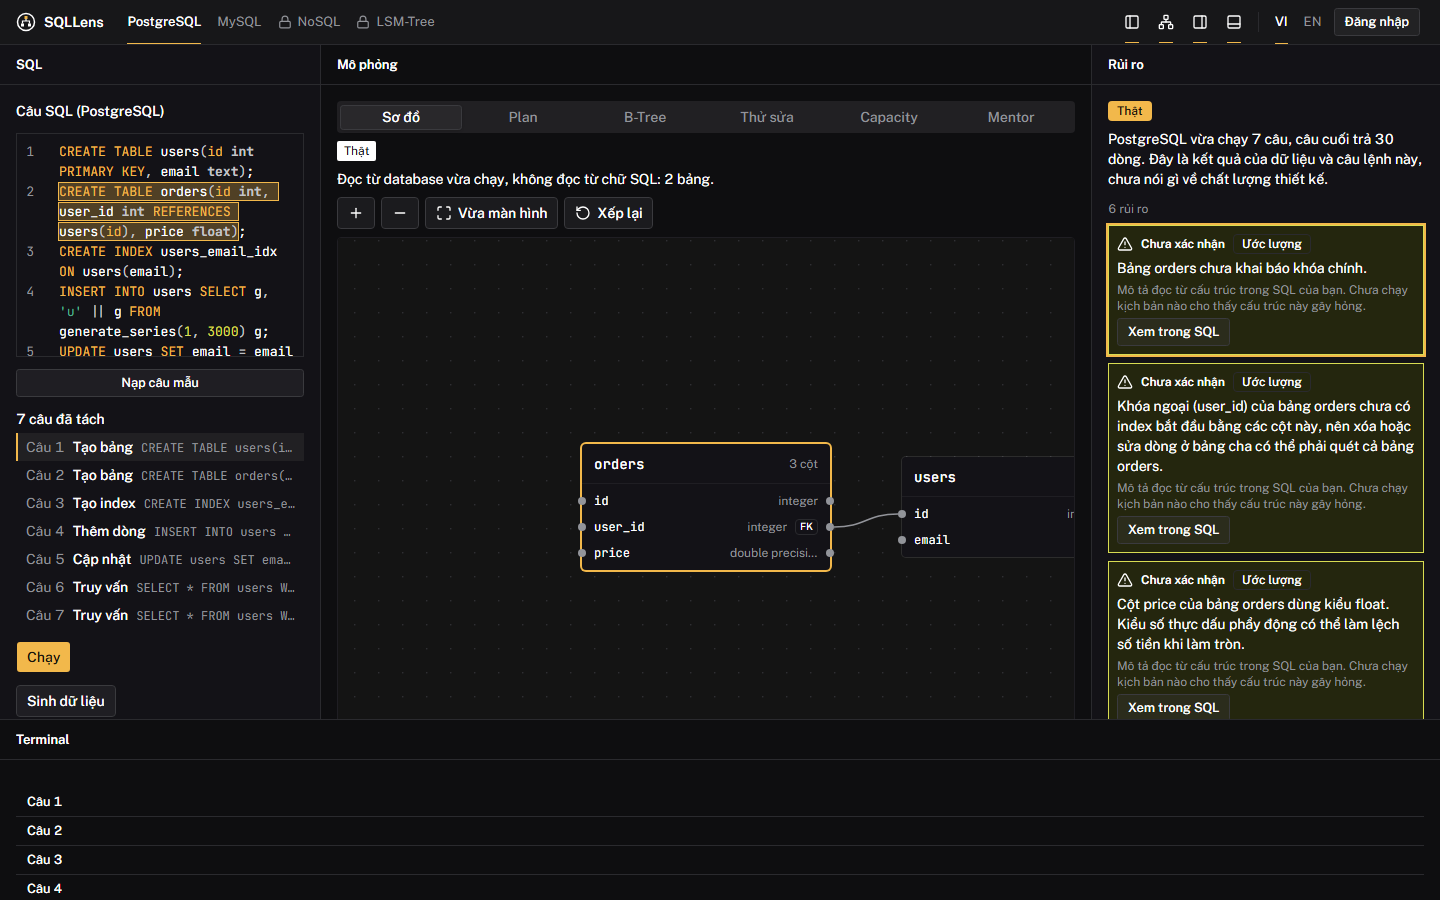
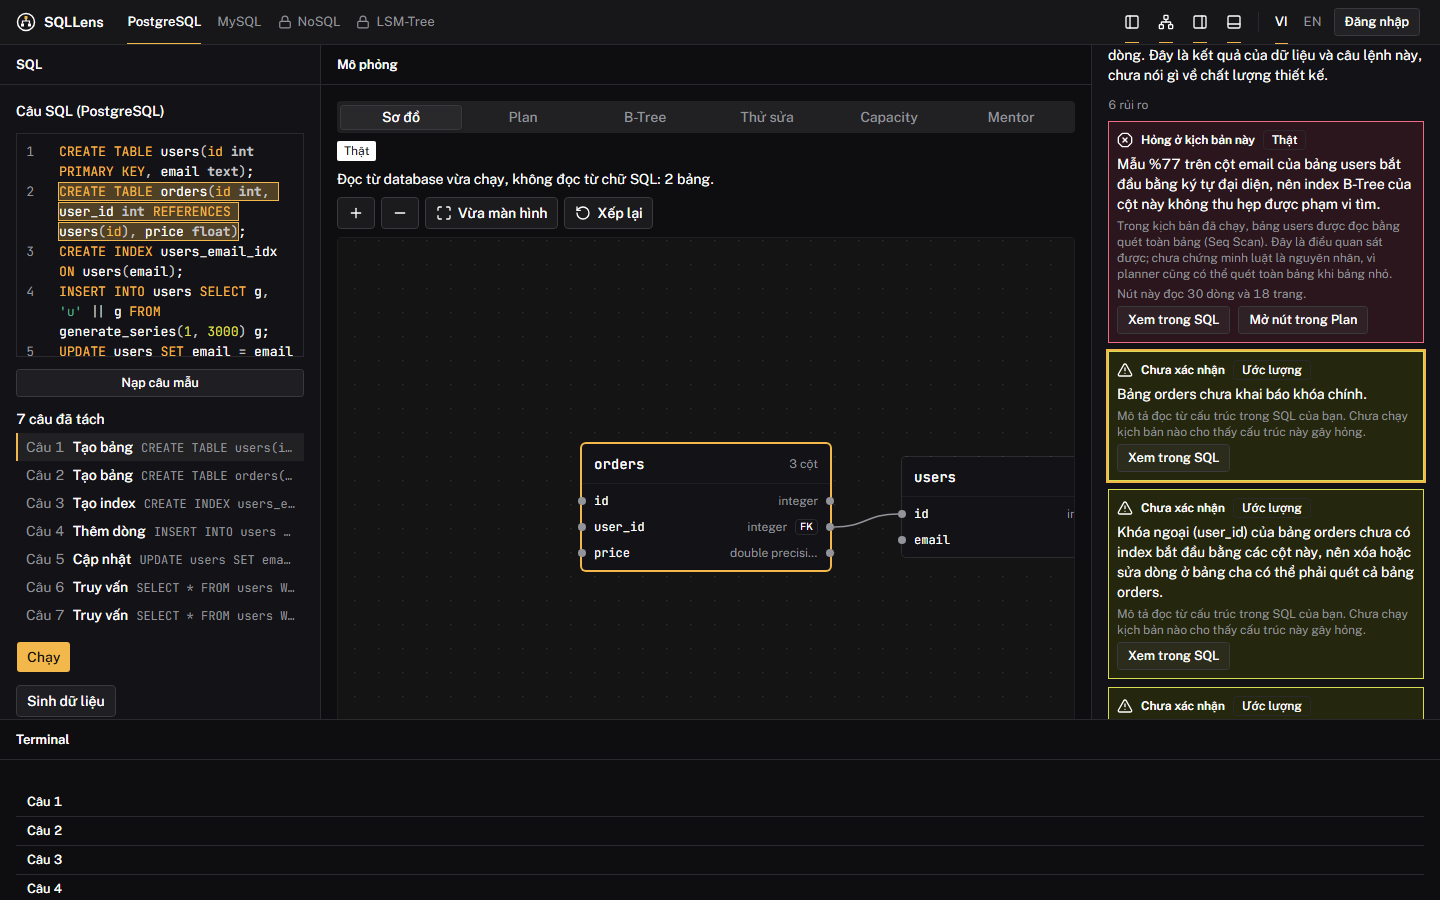
fix(Task069): selector ICU hợp lệ cho implicit-cast, bỏ tiền tố lặp, xếp đỏ trước

Changed region(s): [[0.75, 0.0311, 1.0, 0.8089]]

diff --git a/web/e2e/findings.spec.ts b/web/e2e/findings.spec.ts
@@ -65,7 +65,10 @@ for (const l of ["vi", "en"] as const) {
       }
       await expect(items(page, "broken").getByTestId("finding-evidence").nth(1)).toContainText(/\d+/); // số dòng, số trang
       expect(await page.getByTestId("findings").innerText()).not.toMatch(BAD);
+      expect(await page.getByTestId("findings").innerText()).not.toMatch(/findings.|Not simulated yet: Not simulated|Chưa mô phỏng được: Chưa mô phỏng/); // không lộ khóa dịch thô, không lặp tiền tố
+      await page.setViewportSize({ width: 1440, height: 1700 }); // đủ cao để ảnh có cả sáu mục, ba màu
       await page.screenshot({ path: `${SHOTS}/1440-${l}-risks.png` });
+      await page.setViewportSize({ width: 1440, height: 900 });
 
       // bấm đỏ: tô đúng câu trong SQL, mở sơ đồ và làm nổi thẻ bảng
       await items(page, "broken").locator("button[aria-pressed]").click();
@@ -190,7 +193,9 @@ for (const l of ["vi", "en"] as const) {
       await ready(page, 6);
       expect(await noHScroll(page)).toBe(true);
       expect(await page.getByTestId("findings").innerText()).not.toMatch(BAD);
+      await page.setViewportSize({ width: 390, height: 2000 }); // đủ cao để ảnh có cả sáu mục, ba màu
       await page.screenshot({ path: `${SHOTS}/390-${l}-risks.png` });
+      await page.setViewportSize({ width: 390, height: 844 });
       await items(page, "broken").locator("button[aria-pressed]").click();
       await expect(page.getByRole("tab", { name: T[l].stage, exact: true })).toHaveAttribute("aria-selected", "true");
       await expect(stage(page)).toBeVisible();

diff --git a/web/src/modules/findings/ui/findings-panel.tsx b/web/src/modules/findings/ui/findings-panel.tsx
@@ -69,6 +69,9 @@ export function FindingsPanel({
     );
 
   const { items } = result;
+  // Đỏ trước, xanh sau, giữ thứ tự gốc trong cùng mức. `i` vẫn là chỉ số gốc nên lựa chọn không lệch.
+  const rank = (it: Item) => (it.outcome.kind !== "conclusion" ? 1 : { broken: 0, unverified: 1, not_broken: 2 }[it.outcome.data.severity]);
+  const order = items.map((_, i) => i).sort((a, b) => rank(items[a]) - rank(items[b]) || a - b);
   return (
     <div className="flex min-w-0 flex-col gap-2" data-testid="findings">
       {stale && (
@@ -86,7 +89,8 @@ export function FindingsPanel({
         <>
           <p className="m-0 text-xs text-dim">{t("count", { count: items.length })}</p>
           <ul className="m-0 flex list-none flex-col gap-2 p-0">
-            {items.map((it, i) => {
+            {order.map((i) => {
+              const it = items[i];
               const c = it.outcome.kind === "conclusion" ? it.outcome : null;
               const sev: Severity = c ? c.data.severity : "unverified";
               const Icon = ICON[sev];
@@ -115,7 +119,7 @@ export function FindingsPanel({
                     ))
                   ) : (
                     <p className="m-0 break-words text-xs" data-testid="finding-not-simulated">
-                      {t("notSimulated", { reason: tr((it.outcome as { reasonKey: string }).reasonKey) })}
+                      {tr((it.outcome as { reasonKey: string }).reasonKey)}
                     </p>
                   )}
                   {(h.start !== undefined || planBtn) && (

diff --git a/web/src/modules/findings/evidence/evidence.test.ts b/web/src/modules/findings/evidence/evidence.test.ts
@@ -1,6 +1,7 @@
 // @vitest-environment node
 import { PGlite } from "@electric-sql/pglite";
 import { pageinspect } from "@electric-sql/pglite/contrib/pageinspect";
+import { IntlMessageFormat } from "intl-messageformat";
 import { loadModule, parseSync } from "pgsql-parser";
 import { beforeAll, describe, expect, it } from "vitest";
 import type { Evidence, Outcome } from "@/contracts/conclusion";
@@ -158,7 +159,11 @@ describe("câu dịch (AC5)", () => {
     }
   });
 
+  it("mọi câu dịch là ICU hợp lệ (câu sai cú pháp làm giao diện hiện khóa thô)", () => {
+    for (const [k, v] of [...flat(vi), ...flat(en)]) expect(() => new IntlMessageFormat(v, "en"), k).not.toThrow();
+  });
+
   it("implicit-cast phân biệt ba effect", () => {
-    for (const m of [vi, en]) for (const e of ["literal-cast", "column-cast", "error"]) expect(m.query["implicit-cast"]).toContain(`${e} {`);
+    for (const m of [vi, en]) for (const e of ["literalCast", "columnCast", "error"]) expect(m.query["implicit-cast"]).toContain(`${e} {`);
   });
 });

diff --git a/web/src/modules/findings/query-rules/index.test.ts b/web/src/modules/findings/query-rules/index.test.ts
@@ -59,10 +59,10 @@ describe.each(ENGINES)("%s", (e) => {
   it("AC4 implicit-cast", () => {
     const num = run(e, T + "SELECT * FROM users WHERE a = '5'");
     expect(num).toHaveLength(1);
-    expect(num[0]).toMatchObject({ ruleId: "implicit-cast", column: "a", values: { direction: "number-vs-string", effect: "literal-cast" } });
+    expect(num[0]).toMatchObject({ ruleId: "implicit-cast", column: "a", values: { direction: "number-vs-string", effect: "literalCast" } });
     const txt = run(e, T + "SELECT * FROM users WHERE email = 5");
     expect(txt).toHaveLength(1);
-    expect(txt[0].values).toMatchObject({ direction: "string-vs-number", effect: e === "postgres" ? "error" : "column-cast" });
+    expect(txt[0].values).toMatchObject({ direction: "string-vs-number", effect: e === "postgres" ? "error" : "columnCast" });
     expect(run(e, T + "SELECT * FROM users WHERE a = 5 AND email = 'x'")).toEqual([]);
     expect(run(e, "SELECT * FROM users WHERE a = '5'")).toEqual([]); // kiểu cột không biết
   });

diff --git a/web/src/modules/findings/query-rules/index.ts b/web/src/modules/findings/query-rules/index.ts
@@ -74,7 +74,7 @@ function runScope(scope: Scope, schema: Schema, emit: Emit, engine: EngineId) {
         if (!t || !dir) continue;
         // PostgreSQL: literal chuỗi tự nhận kiểu cột (index vẫn dùng được), còn cột chữ so với số thì báo lỗi.
         // MySQL: chuỗi đổi thành số một lần, nhưng cột chữ so với số thì mỗi dòng bị ép kiểu nên index không dùng được.
-        const effect = dir === "number-vs-string" ? "literal-cast" : engine === "postgres" ? "error" : "column-cast";
+        const effect = dir === "number-vs-string" ? "literalCast" : engine === "postgres" ? "error" : "columnCast";
         emit("implicit-cast", c, t.name, lc(c.name), { direction: dir, effect, literal: v.v });
       }
     }
